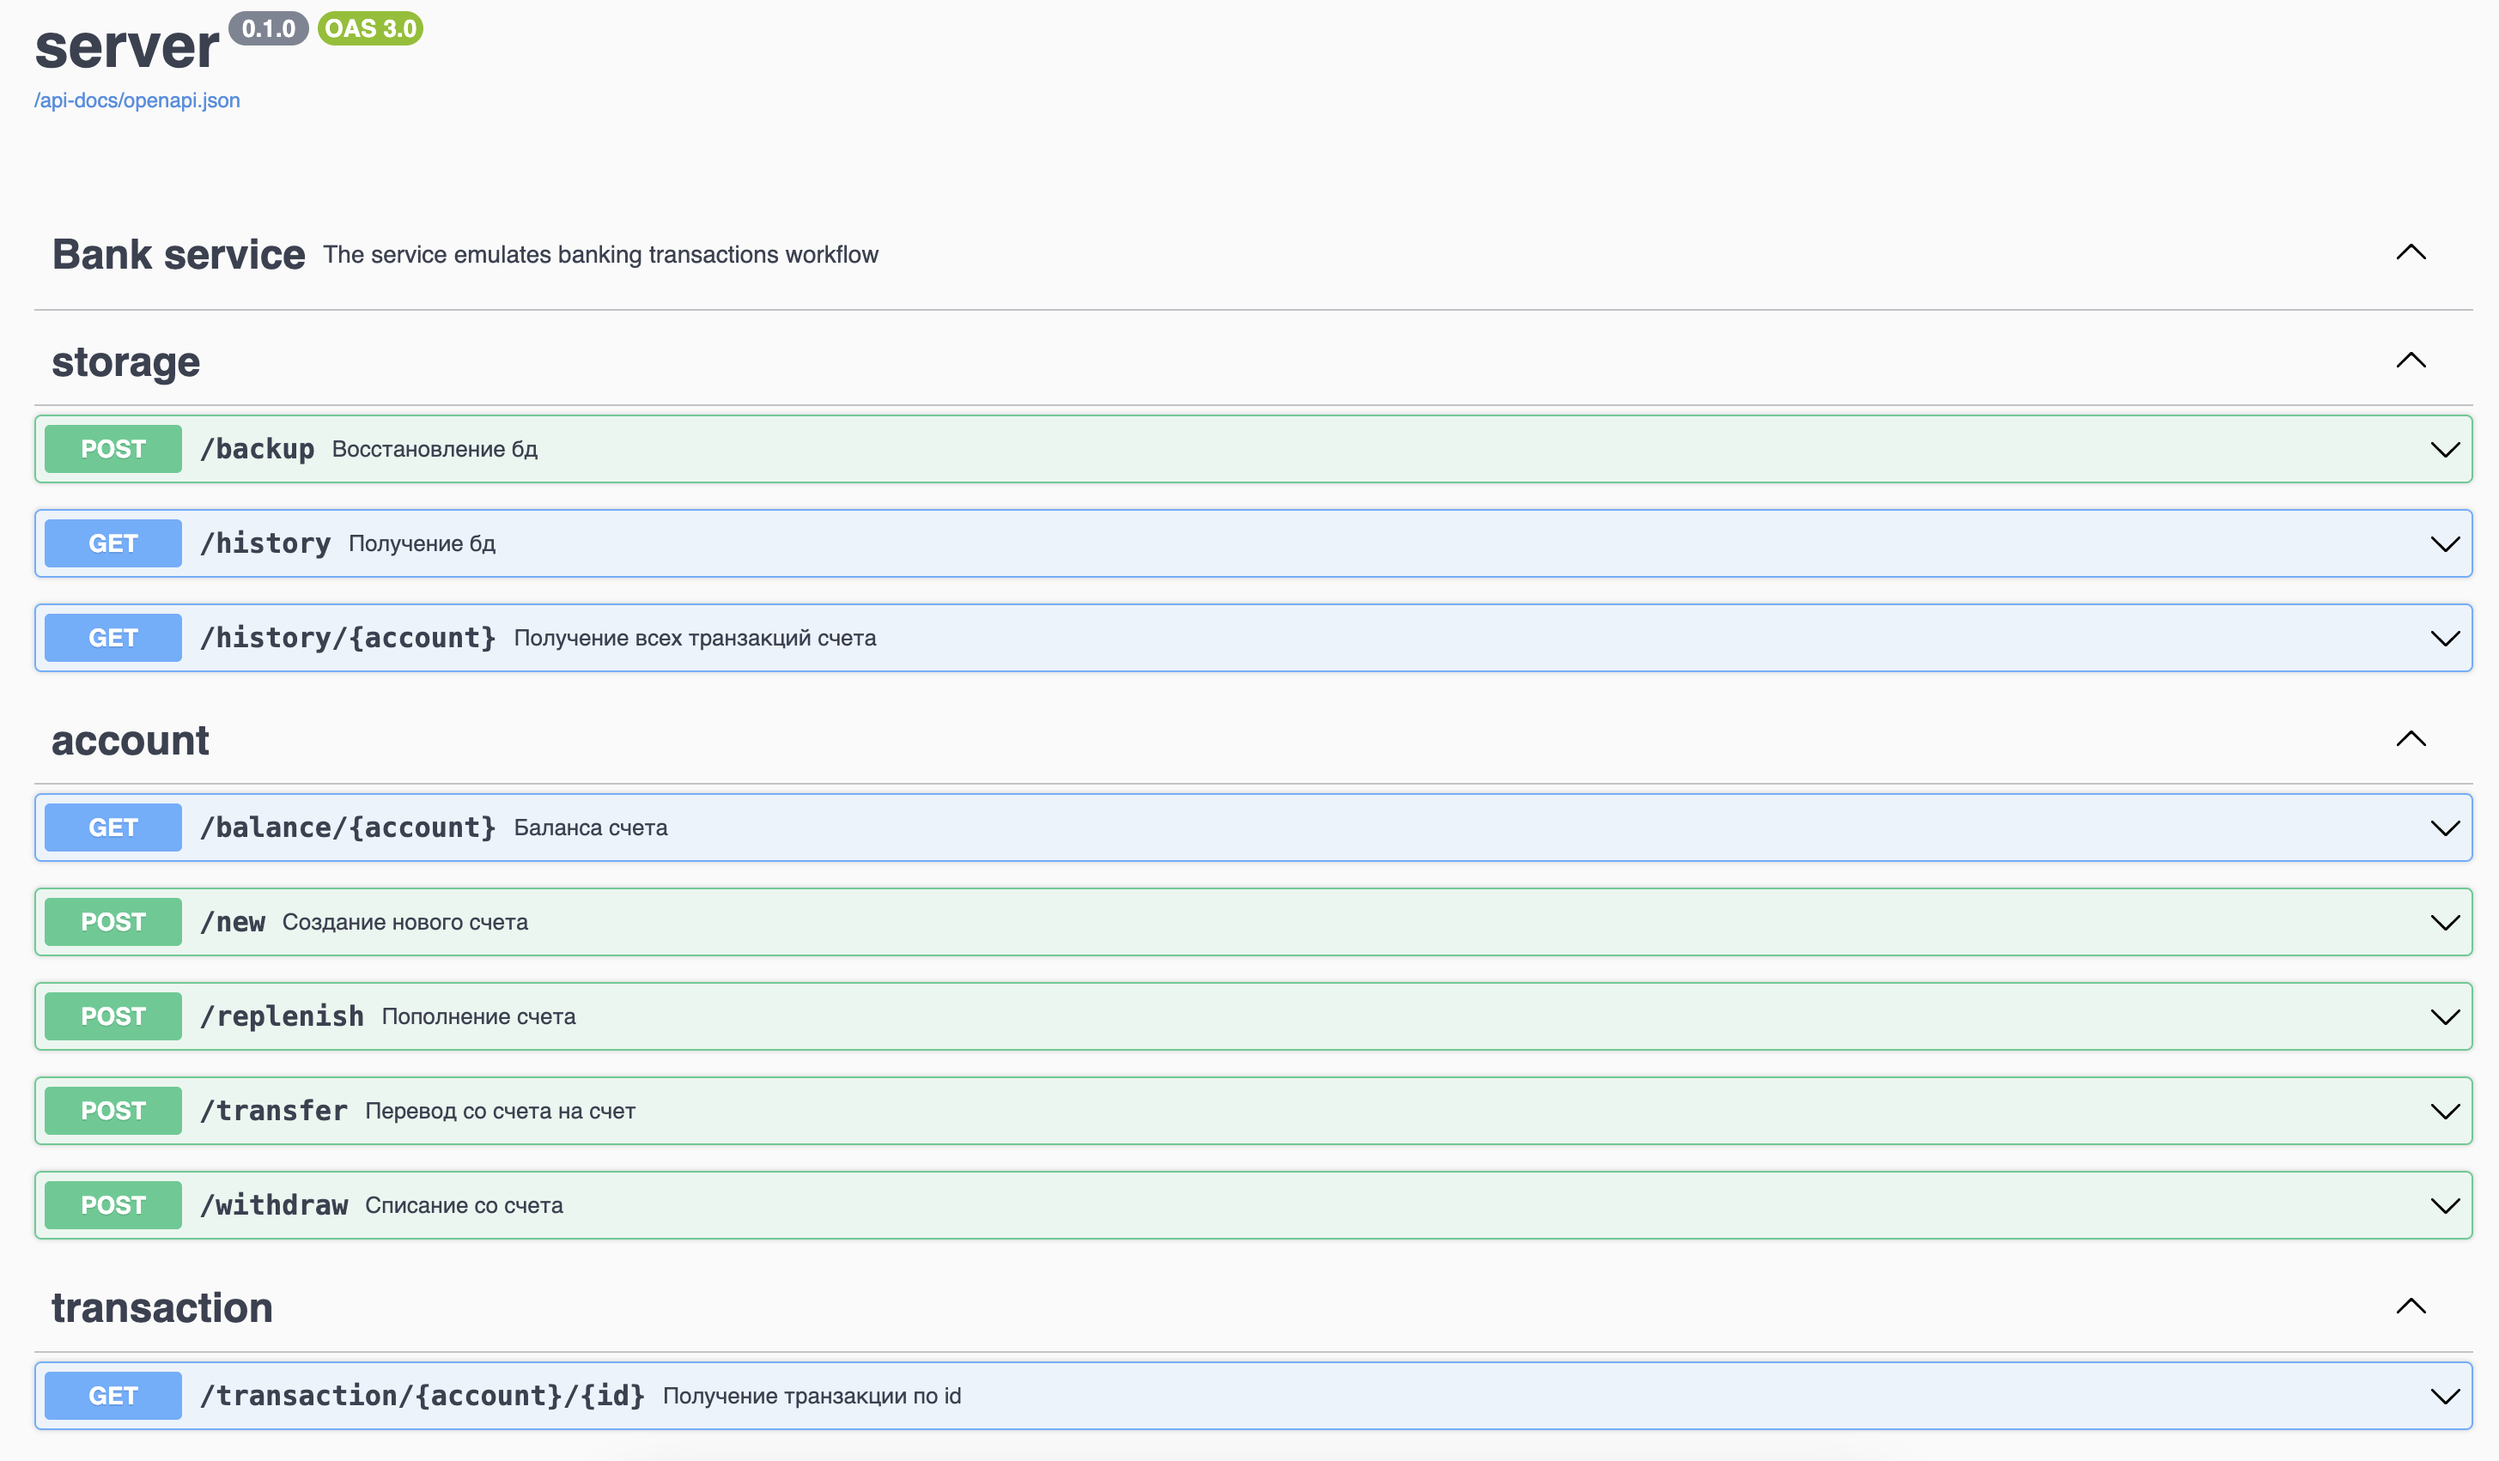
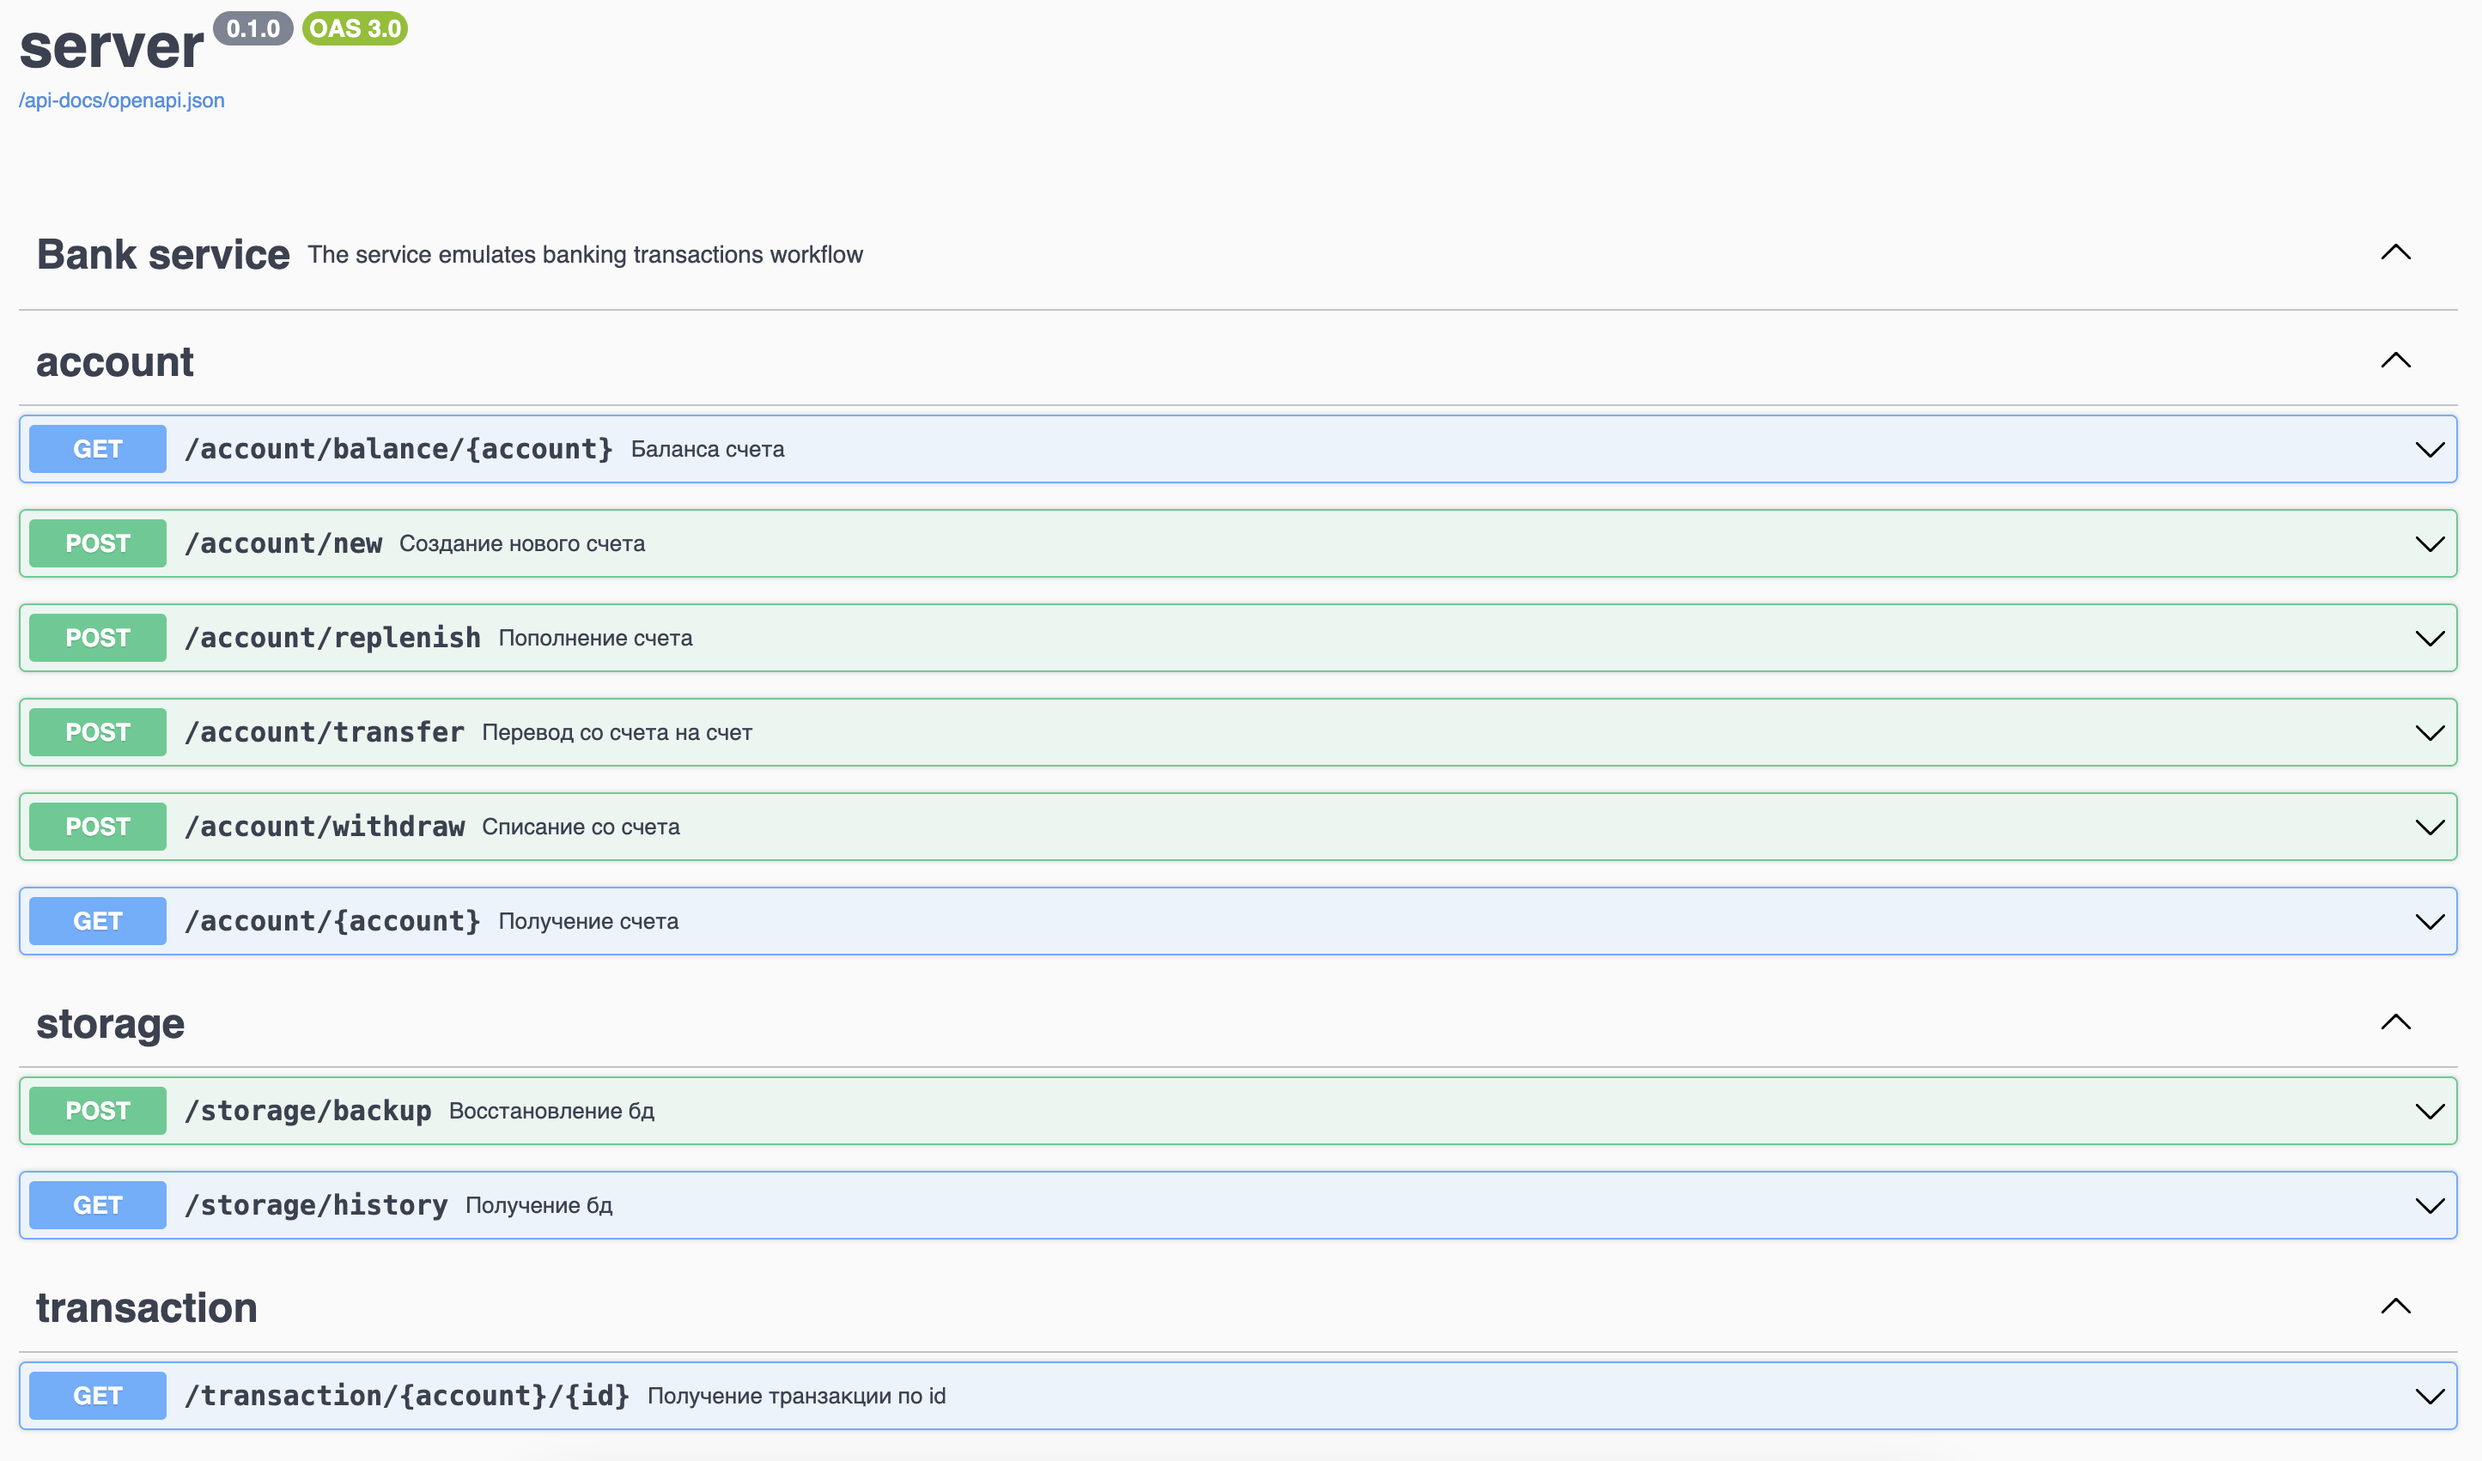
fix readme

diff --git a/server/src/adapters/router/handlers/account.rs b/server/src/adapters/router/handlers/account.rs
@@ -177,7 +177,7 @@ responses(
 (status = 404, description = "Account not found", body = AppError, example = json!(
 {"error": AccountExistsErr(String::from("account_№n")).to_string()})),
 ))]
-/// Получение всех транзакций счета
+/// Получение счета
 pub async fn account(
     State(state): State<StorageState>,
     Path(account_name): Path<String>,
